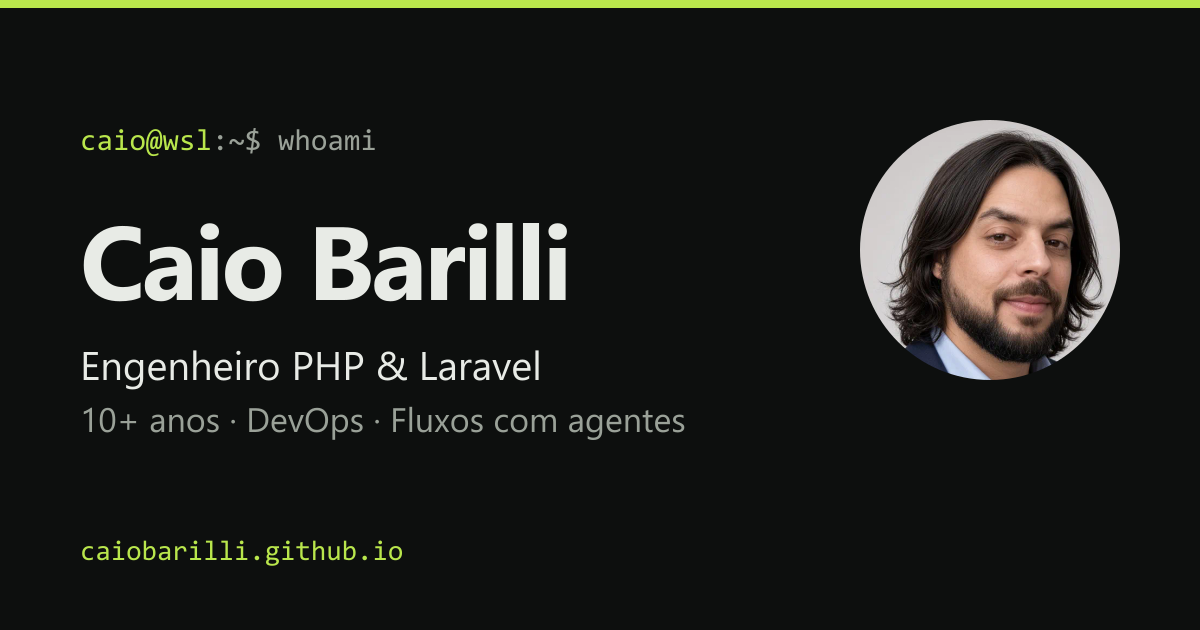
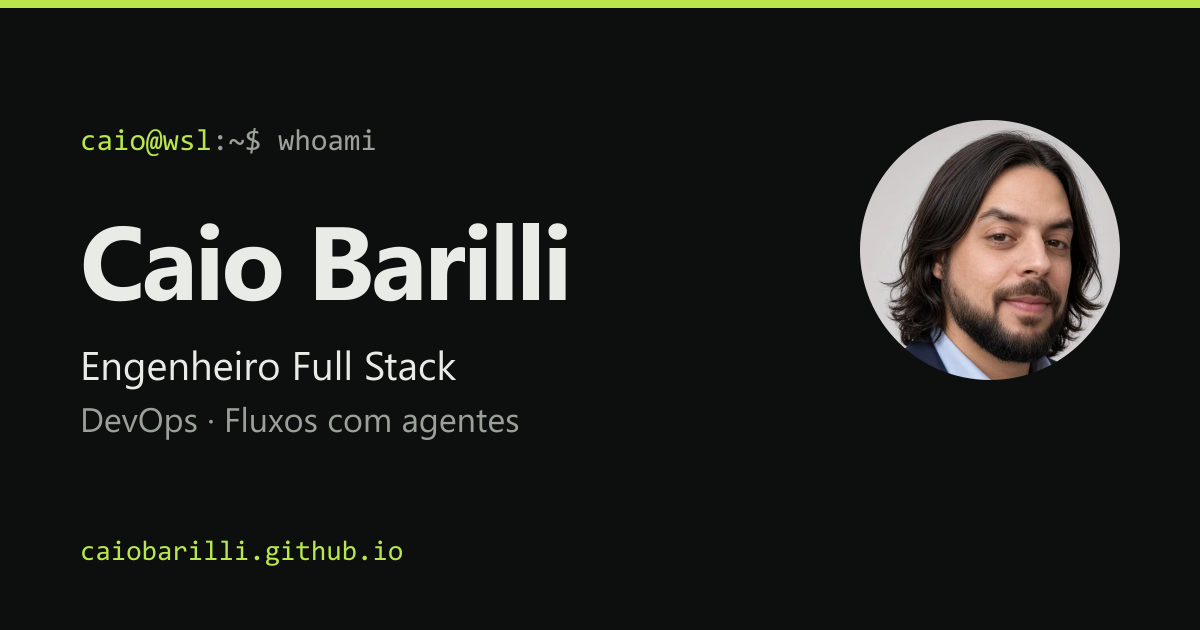
feat: cargo Full Stack Engineer, parágrafo da home e cards de prévia

Changed region(s): [[0.0617, 0.6333, 0.5858, 0.6937], [0.2467, 0.5429, 0.4625, 0.6032]]

diff --git a/e2e/site.spec.ts b/e2e/site.spec.ts
@@ -90,7 +90,7 @@ test.describe("home", () => {
 
   test("the home title carries the role, numbers follow the language and articles say they are in Portuguese", async ({ page }) => {
     await page.goto("/en/");
-    await expect(page).toHaveTitle("Caio Barilli · PHP & Laravel Engineer");
+    await expect(page).toHaveTitle("Caio Barilli · Full Stack Engineer");
     await expect(page.getByText("Sep 4, 2026 · In Portuguese")).toBeVisible();
     await page.goto("/pt-br/");
     await expect(page.getByText("4 set 2026", { exact: true })).toBeVisible();

diff --git a/src/app/[locale]/layout.tsx b/src/app/[locale]/layout.tsx
@@ -22,7 +22,7 @@ export async function generateMetadata({ params }: { params: Promise<{ locale: s
   if (!isLocale(locale)) return {};
   return {
     metadataBase: new URL(SITE_URL),
-    // Home title: name plus the first part of the role line, e.g. "Caio Barilli · PHP & Laravel Engineer".
+    // Home title: name plus the first part of the role line, e.g. "Caio Barilli · Full Stack Engineer".
     ...pageMetadata(locale, `Caio Barilli · ${str(locale, "role").split(" · ")[0]}`, str(locale, "heroLine"), ""),
   };
 }

diff --git a/README.md b/README.md
@@ -1,7 +1,7 @@
 <h1 align="center">caiobarilli.github.io</h1>
 
 <p align="center">
-  Personal portfolio of Caio Barilli — PHP &amp; Laravel engineer, DevOps and agentic workflows.
+  Personal portfolio of Caio Barilli — Full Stack engineer, DevOps and agentic workflows.
   <br />
   <a href="https://caiobarilli.github.io"><strong>caiobarilli.github.io</strong></a>
 </p>
